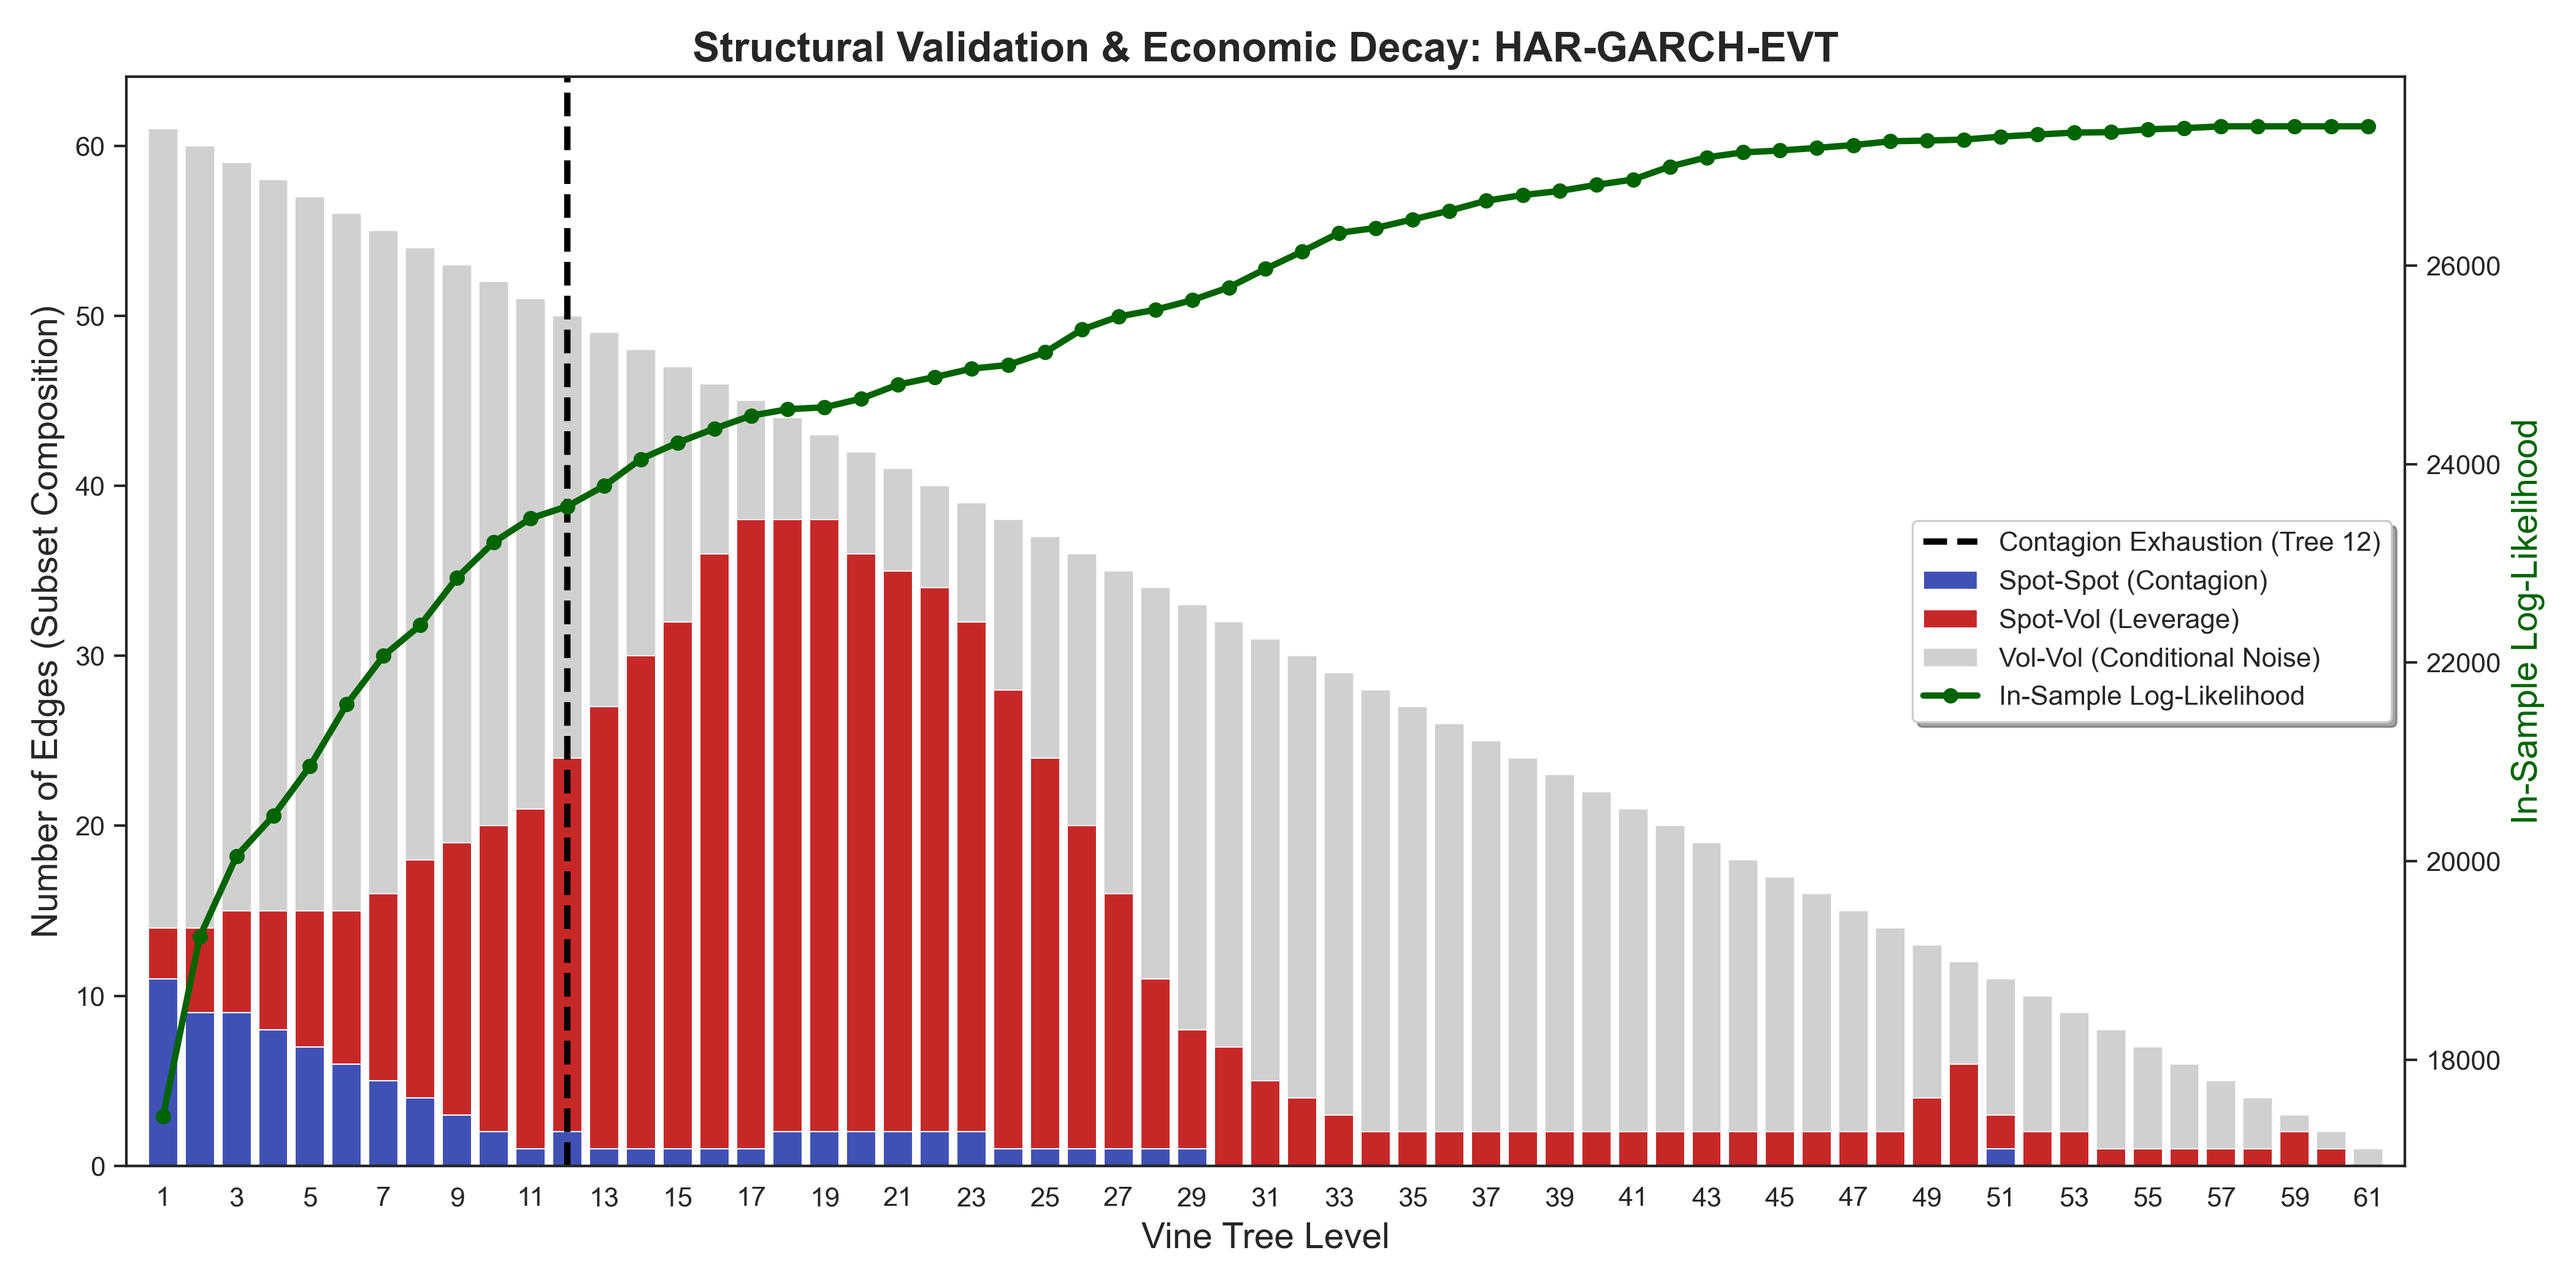
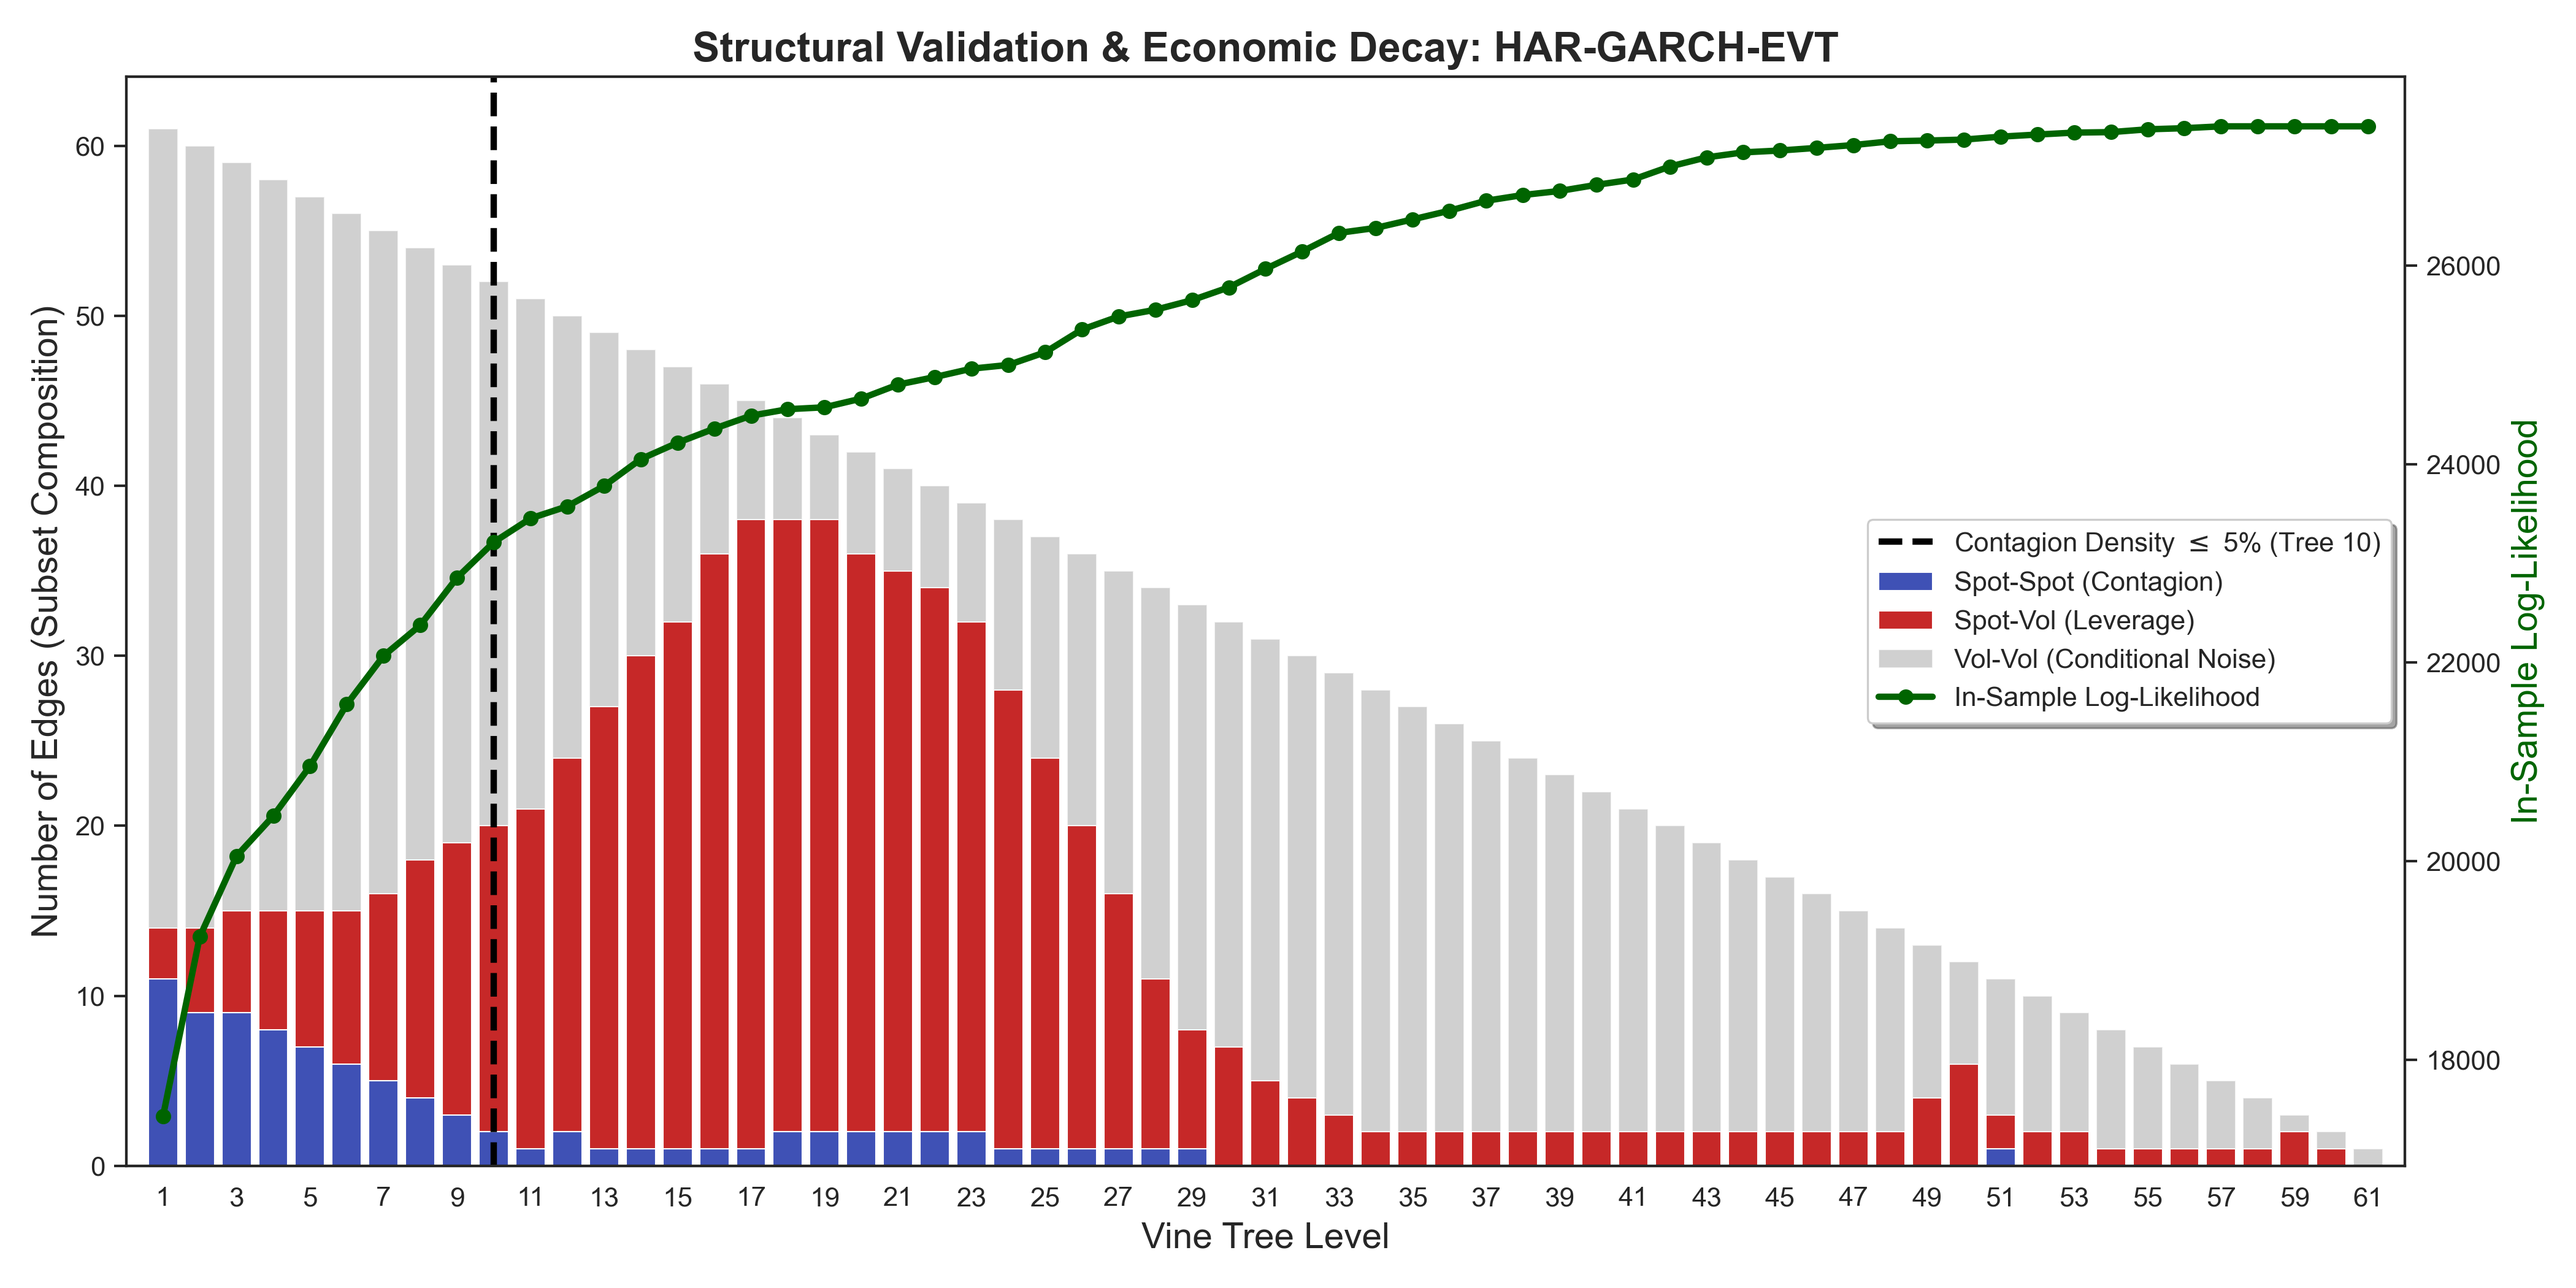
Truncation

Changed region(s): [[0.7174, 0.4024, 0.9357, 0.5881]]

diff --git a/src/dependence/explore_vine_truncation.py b/src/dependence/explore_vine_truncation.py
@@ -20,6 +20,13 @@ def analyze_tree_subsets_interactive(model, u_train, var_names, name, graph_dir)
     
     print(f"\nAnalyzing Economic Subsets and In-Sample LL for {name} ({max_tree} trees)...")
     
+    # Track the algorithmic cutoff (First time Spot-Spot density <= 5%)
+    algorithmic_cutoff = None
+    
+    # 1. Print Header
+    print(f"\n{'Tree':<6} | {'Spot-Spot':<12} | {'Density':<10} | {'Spot-Vol':<10} | {'Vol-Vol':<10}")
+    print("-" * 60)
+    
     for tree_idx in range(max_tree): 
         lvl = tree_idx + 1
         spot_spot, spot_vol, vol_vol = 0, 0, 0
@@ -35,6 +42,12 @@ def analyze_tree_subsets_interactive(model, u_train, var_names, name, graph_dir)
             else: spot_vol += 1
                 
         total_edges = spot_spot + spot_vol + vol_vol
+        spot_density = (spot_spot / total_edges) if total_edges > 0 else 0.0
+        
+        # Algorithmic Detection: 5% Topological Density Rule
+        if algorithmic_cutoff is None and spot_density <= 0.05:
+            algorithmic_cutoff = lvl
+                
         pct_involving_spot = ((spot_spot + spot_vol) / total_edges) * 100 if total_edges > 0 else 0
         
         trunc_model = pv.Vinecop.from_json(model_json)
@@ -45,25 +58,24 @@ def analyze_tree_subsets_interactive(model, u_train, var_names, name, graph_dir)
             'Tree': lvl, 'Spot_Spot': spot_spot, 'Spot_Vol': spot_vol, 'Vol_Vol': vol_vol,
             'Pct_Involving_Spot': pct_involving_spot, 'IS_LL': is_ll
         })
+        
+        # 2. Print Exact Numbers (only up to tree 30 to avoid terminal spam)
+        if lvl <= 30:
+            marker = "<-- 5% CUTOFF MET" if lvl == algorithmic_cutoff else ""
+            print(f"{lvl:<6} | {spot_spot:<12} | {spot_density*100:>5.1f}%    | {spot_vol:<10} | {vol_vol:<10} {marker}")
 
     df_res = pd.DataFrame(results)
     
-    # --- STRICT CONTAGION EXHAUSTION TRUNCATION ---
-    # Enforcing the 12/14 parsimony rule from the thesis methodology
-    if "HAR" in name.upper():
-        truncation_tree = 12
-    else:
-        truncation_tree = 14
-
-    save_path = os.path.join(graph_dir, f"Decay_{name}.png")
-
+    # Fallback if it never hits 5% (extremely unlikely)
+    if algorithmic_cutoff is None:
+        algorithmic_cutoff = max_tree
+    
     print(f"\n" + "="*50)
     print(f"--- DYNAMIC ECONOMIC INSIGHTS: {name} ---")
     print("="*50)
-    print(f"Enforcing strict Contagion Exhaustion Truncation at Tree {truncation_tree}.")
-    print("="*50)
+    print(f"The algorithm detected the 5% density terminal plateau at Tree {algorithmic_cutoff}.")
     
-    # --- PLOT DUAL-AXIS GRAPH ---
+    # --- PLOT GRAPH WITHOUT THE LINE ---
     sns.set_theme(style="white", context="paper", font_scale=1.2)
     fig, ax1 = plt.subplots(figsize=(14, 7))
     
@@ -80,23 +92,32 @@ def analyze_tree_subsets_interactive(model, u_train, var_names, name, graph_dir)
     ax2.plot(df_res['Tree'], df_res['IS_LL'], color='darkgreen', marker='o', linewidth=2.5, markersize=5, label='In-Sample Log-Likelihood')
     ax2.set_ylabel("In-Sample Log-Likelihood", color='darkgreen', fontsize=14)
     
-    # Highlight the strict Contagion Exhaustion truncation
-    ax1.axvline(x=truncation_tree, color='black', linestyle='--', linewidth=2.5, label=f'Contagion Exhaustion (Tree {truncation_tree})')
-    
     lines_1, labels_1 = ax1.get_legend_handles_labels()
     lines_2, labels_2 = ax2.get_legend_handles_labels()
     ax1.legend(lines_1 + lines_2, labels_1 + labels_2, loc='center right', frameon=True, shadow=True)
     
     plt.title(f"Structural Validation & Economic Decay: {name}", fontsize=16, fontweight='bold')
     plt.tight_layout()
-    plt.savefig(save_path, dpi=300)
     
-    # Show the plot to the user
-    print("\n[!] Please review the popup graph. The line has been placed according to the thesis methodology.")
+    # 3. Show the plot interactively to the user
+    print("\n[!] Please review the popup graph.")
     plt.show() 
     
-    # --- USER INPUT ---
-    chosen_k = int(input(f"\nPress Enter to accept Truncation Level [{truncation_tree}] or type a manual override: ") or truncation_tree)
+    # 4. User Input 
+    user_input = input(f"\nPress Enter to accept Algorithm Truncation [{algorithmic_cutoff}] or type a manual override: ")
+    chosen_k = int(user_input) if user_input.strip() else algorithmic_cutoff
+    
+    # 5. Draw the final line and save the PNG
+    ax1.axvline(x=chosen_k, color='black', linestyle='--', linewidth=2.5, label=rf'Contagion Density $\leq$ 5% (Tree {chosen_k})')
+    
+    # Refresh legend to include the new black line
+    lines_1, labels_1 = ax1.get_legend_handles_labels()
+    ax1.legend(lines_1 + lines_2, labels_1 + labels_2, loc='center right', frameon=True, shadow=True)
+    
+    save_path = os.path.join(graph_dir, f"Decay_{name}.png")
+    fig.savefig(save_path, dpi=300)
+    print(f"Saved final graph with truncation line at {chosen_k} to {save_path}")
+    
     return chosen_k
 
 if __name__ == "__main__":

diff --git a/config/settings.py b/config/settings.py
@@ -42,5 +42,5 @@ N_PC_LOCAL = [3,    3,    3,   4,     3,   3,   3,    3,    3,    3,   3,   5,  
 assert len(N_PC_LOCAL) == N_ASSETS, "Mismatch between number of assets and local PC ranks!"
 
 # 6. VINE TRUNCATION LEVELS
-K_HAR_GARCH = 12
-K_NSDE = 14
+K_HAR_GARCH = 10
+K_NSDE = 13
